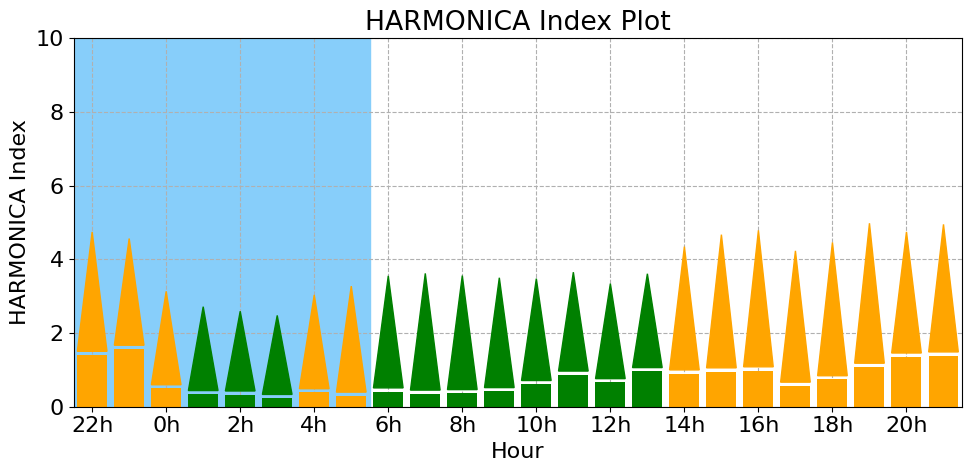
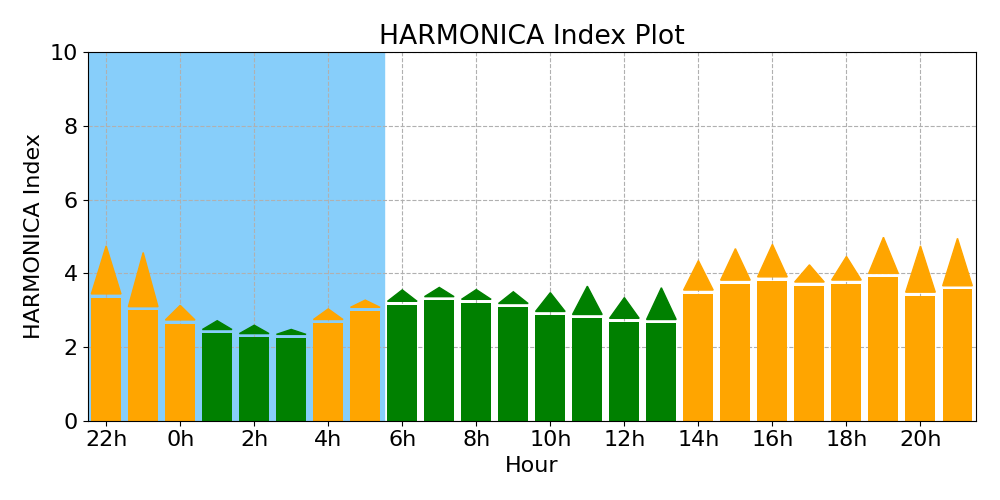
Fix HARMONICA index computation (BGN and EVT were swapped); also fix coverage check for harmonica and rolling la95 computation; update docs and tests accordingly

Changed region(s): [[0.0, 0.0, 1.0, 0.9788], [0.6179, 0.3856, 1.0, 0.4153], [0.6179, 0.2373, 1.0, 0.2669]]

diff --git a/src/noisemonitor/util/core.py b/src/noisemonitor/util/core.py
@@ -220,13 +220,20 @@ def harmonica(
 
 def hourly_harmonica(hour, group, column, interval, previous_data):
     """Compute a single hour of data to compute HARMONICA indicators."""
-    if group.empty:
+    # Return NaN only when fewer than 80% of the expected data points
+    # (both missing rows and NaN values) are present for the hour.
+    expected_count = 3600 // interval
+    nan_count = group.iloc[:, column].isna().sum()
+    missing_count = max(0, expected_count - len(group))
+    valid_ratio = (expected_count - missing_count - nan_count) / expected_count
+
+    if valid_ratio < 0.8:
         return {
-            'hour': hour,
-            'EVT': np.nan,
-            'BGN': np.nan,
+            'hour': hour, 
+            'EVT': np.nan, 
+            'BGN': np.nan, 
             'HARMONICA': np.nan
-        }
+            }
 
     # Filter previous_data to include only the last 10 minutes
     if not previous_data.empty:
@@ -236,30 +243,21 @@ def hourly_harmonica(hour, group, column, interval, previous_data):
     # Combine the current hour's data with the filtered previous data
     combined_data = pd.concat([previous_data, group])
 
-    if (len(group) != 3600 // interval) or \
-    (group.iloc[:, column].isna().sum().sum() / len(group) > 0.2):
-        return {
-            'hour': hour, 
-            'EVT': np.nan, 
-            'BGN': np.nan, 
-            'HARMONICA': np.nan
-            }
-
     # Compute LAeq for the hour
     laeq = equivalent_level(group.iloc[:, column])
 
     # Compute LA95eq for the hour using a rolling window
     la95 = combined_data.iloc[:, column].rolling(
         window=int(600 // interval),
-        step=int(max(1, 1//interval))
+        step=max(1, int(round(1.0 / interval)))
     ).apply(lambda x: np.nanpercentile(x, 5), raw=True)
 
-    la95 = la95.loc[group.index]
+    la95 = la95.loc[group.index[0]:group.index[-1]]
     la95eq = equivalent_level(la95.dropna())
 
     # Compute EVT, BGN, and HARMONICA
-    evt = 0.2 * (la95eq - 30)
-    bgn = 0.25 * (laeq - la95eq)
+    bgn = 0.2 * (la95eq - 30)
+    evt = 0.25 * (laeq - la95eq)
     harmonica = bgn + evt
 
     return {

diff --git a/tests/unit/test_summary.py b/tests/unit/test_summary.py
@@ -130,16 +130,16 @@ class TestHarmonicaPeriodic:
         for col in expected_columns:
             assert col in result.columns
         
-        assert abs(result.iloc[0]['BGN'] - 0.496360) < 1e-5
-        assert abs(result.iloc[0]['EVT'] - 2.635803) < 1e-5  
+        assert abs(result.iloc[0]['BGN'] - 2.635803) < 1e-5
+        assert abs(result.iloc[0]['EVT'] - 0.496360) < 1e-5  
         assert abs(result.iloc[0]['HARMONICA'] - 3.132164) < 1e-5
         
-        assert abs(result.iloc[1]['BGN'] - 0.339076) < 1e-5
-        assert abs(result.iloc[1]['EVT'] - 2.375998) < 1e-5
+        assert abs(result.iloc[1]['BGN'] - 2.375998) < 1e-5
+        assert abs(result.iloc[1]['EVT'] - 0.339076) < 1e-5
         assert abs(result.iloc[1]['HARMONICA'] - 2.715074) < 1e-5
         
-        assert abs(result.iloc[2]['BGN'] - 0.326900) < 1e-5
-        assert abs(result.iloc[2]['EVT'] - 2.265118) < 1e-5
+        assert abs(result.iloc[2]['BGN'] - 2.26511) < 1e-5
+        assert abs(result.iloc[2]['EVT'] - 0.326900) < 1e-5
         assert abs(result.iloc[2]['HARMONICA'] - 2.592018) < 1e-5
     
     def test_harmonica_1m(self, laeq1m_data):

diff --git a/tests/unit/test_core.py b/tests/unit/test_core.py
@@ -332,6 +332,18 @@ class TestHourlyHarmonica:
         assert not np.isnan(result['BGN'])
         assert not np.isnan(result['HARMONICA'])
 
+    def test_hourly_harmonica_missing_rows_under_threshold(self):
+        """Hour with a few missing rows but >=80% coverage should NOT return NaN."""
+        # 3600 expected samples at 1s; drop 100 rows (97.2% coverage)
+        dates = pd.date_range('2023-01-01 00:00:00', periods=3600, freq='1s')
+        data = np.random.uniform(40, 70, 3600)
+        df = pd.DataFrame({'LAeq': data}, index=dates).iloc[:-100]  # 3500 rows
+        result = hourly_harmonica(
+            hour=dates[0], group=df, column=0,
+            interval=1, previous_data=pd.DataFrame()
+        )
+        assert not np.isnan(result['HARMONICA'])
+
 
 class TestLden:
     """Test the lden function."""

diff --git a/src/noisemonitor/util/filter.py b/src/noisemonitor/util/filter.py
@@ -74,7 +74,7 @@ def extreme_values(
         will be used.
     min_value: int, default 30
         The minimum value threshold.
-    max_value: int, default 95
+    max_value: int, default 100
         The maximum value threshold.
 
     Returns
